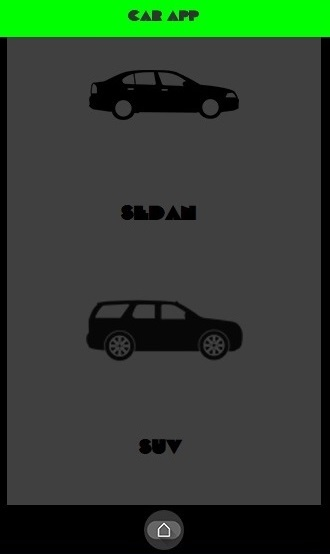
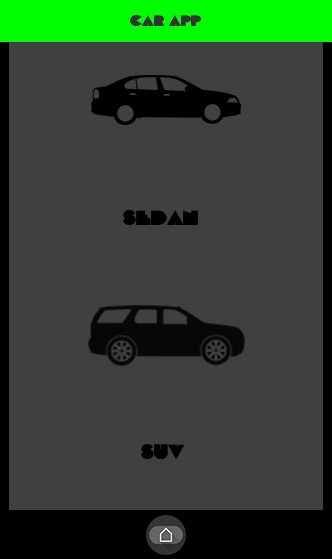
improve print screens

diff --git a/index.html b/index.html
@@ -16,6 +16,7 @@
 					<ul>
 						<li><a href="#phone">Lock-Screen</a></li>
 						<li><a href="#car-app">Car-APP</a></li>
+						<li><a href="#">graphing-calc</a></li>
 						<li><a href="#wizard-rpg">Wizard-RPG</a></li>
 						<li><a href="#contact">Contact</a></li>		
 					</ul>
@@ -40,7 +41,7 @@
 			<h2>iPhone Lock Screen</h2>
 
 			<p>This project, one can see the current time on the lock screen of an iPhone.I designed designed an iPhone using html and css. I used JavaScript to get input of date and time from the computer. The has a frame refressh rate at 10000 mili seconds.<p>
-			<img src='res/phone.jpg' alt="phone photo"> 
+			<img src='res/phone.jpg' alt="phone photo" class="phoneimg"> 
 
 		</div>	
 
@@ -49,10 +50,12 @@
 	
 			<p>CarApp is a Java program which simulates a mobile app where the users get o navigate a list of cars in order to purchase a one. When the user clicks on the type of car, the page shows the options available for that type. The user then can click on a specific model. After the user clicked on a model, the details of the car will show up. All the elements in this program were programmed in Java.</p>
 
-			<img src='res/CarApp1.jpg' alt="screen shots of CarApp">
-			<img src='res/CarApp2.jpg' alt="screen shots of CarApp">
-			<img src='res/CarApp3.jpg' alt="screen shots of CarApp">
-			<img src='res/CarApp4.jpg' alt="screen shots of CarApp">
+			<div class="photo-grid">
+				<img src='res/CarApp1.jpg' alt="screen shots of CarApp">
+				<img src='res/CarApp2.jpg' alt="screen shots of CarApp">
+				<img src='res/CarApp3.jpg' alt="screen shots of CarApp">
+				<img src='res/CarApp4.jpg' alt="screen shots of CarApp">
+			</div>
 
 		</div>
 

diff --git a/css/style.css b/css/style.css
@@ -15,15 +15,15 @@ p {
 	color: #55d6cc;	
 }
 
-img {
+.phoneimg {
 	margin-left: auto;
 	margin-right: auto;
 	display: block;
 }
 
 .container{
-	padding: 5%;
-	width: 70%;
+	padding: 7%;
+	width: 60%;
 	margin: auto;
 	overflow: hidden;
 }
@@ -32,34 +32,35 @@ ul {
 
 	margin: 0;
 	padding: 0;
-	text-align: justify;
-	text-justify:inter-word;
-	text-align: center;
+	
 }
 
 /* header */
 header {
 	background-color:#55d6cc;
 	color: white;
-	padding-top: 10px;
-	padding-bottom: 5px;
-	border-bottom: #222 3px solid;	
+	padding-top: 15px;
+	padding-bottom: 10px;
+	border-bottom: #222 3px solid;
+
 }
 
 header a {
+
 	color: #222;
 	text-decoration: none;
 	text-transform: uppercase;
 	font-size: 16px;
-	text-align: center;
 }
 a:hover {
 	font-weight: bold;
 }
 
 header li{
+
 	display: inline;
 	padding: 2%;
+
 }
 
 .home-photo {
@@ -74,4 +75,8 @@ header li{
 	position: relative;
 	left: 50%;
 	margin-left: -100px;
+}
+
+.photo-grid {
+
 }
